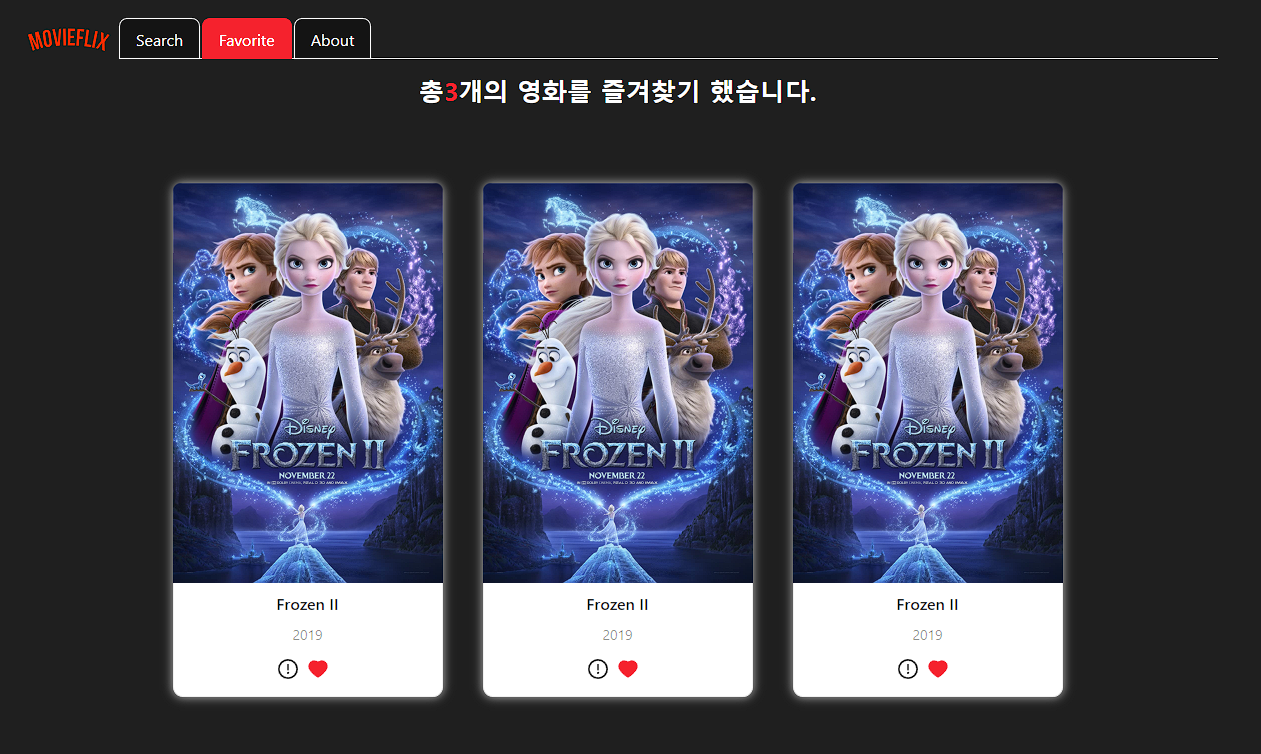
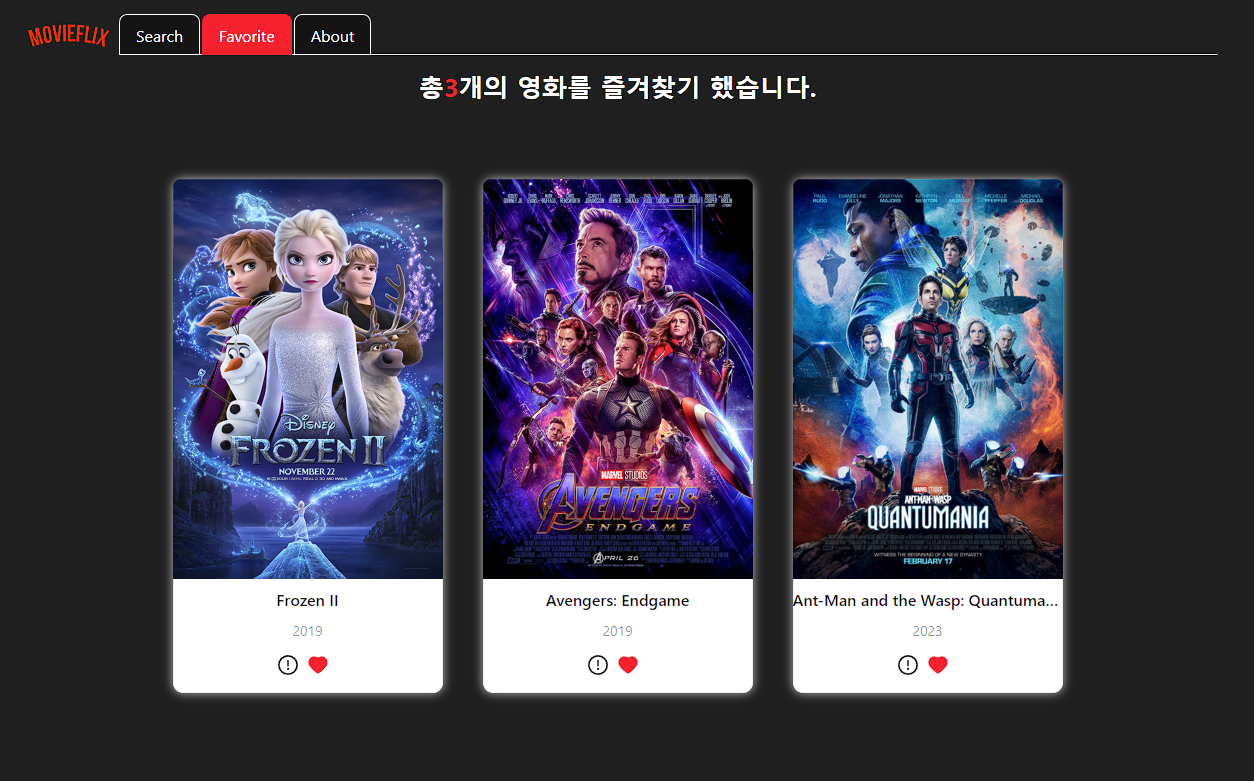
docs: readme업데이트

diff --git a/README.md b/README.md
@@ -26,13 +26,13 @@
 ## 3. 프로젝트 구조
 ```
 SearchMovie
+├─ .eslintrc.cjs
+├─ .git
 ├─ .gitignore
 ├─ .prettierrc.json
 ├─ index.html
 ├─ package.json
 ├─ public
-│  ├─ favicon.ico
-│  └─ vite.svg
 ├─ README.md
 ├─ src
 │  ├─ apis
@@ -41,27 +41,14 @@ SearchMovie
 │  ├─ assets
 │  ├─ components
 │  │  ├─ Card
-│  │  │  └─ index.tsx
 │  │  ├─ Content
-│  │  │  ├─ containder.tsx
-│  │  │  ├─ favoriteResult.tsx
-│  │  │  ├─ index.tsx
-│  │  │  └─ searchResult.tsx
 │  │  ├─ Header
-│  │  │  └─ index.tsx
 │  │  ├─ Layout
-│  │  │  └─ index.tsx
 │  │  ├─ Modal
-│  │  │  └─ index.tsx
 │  │  ├─ Pagination
-│  │  │  └─ index.tsx
 │  │  ├─ Search
-│  │  │  └─ index.tsx
 │  │  ├─ SideBar
-│  │  │  └─ index.tsx
 │  │  └─ Skeleton
-│  │     ├─ index.tsx
-│  │     └─ modal.tsx
 │  ├─ main.tsx
 │  ├─ pages
 │  │  ├─ About.tsx
@@ -69,27 +56,9 @@ SearchMovie
 │  │  ├─ NotFound.tsx
 │  │  └─ Search.tsx
 │  ├─ routes
-│  │  └─ Router.tsx
 │  ├─ store
-│  │  ├─ idStore.ts
-│  │  ├─ modalStore.ts
-│  │  ├─ optionStore.ts
-│  │  └─ sideBarStore.ts
 │  ├─ styles
-│  │  ├─ Card.styles.ts
-│  │  ├─ Content.styles.ts
-│  │  ├─ Global.styles.ts
-│  │  ├─ Header.styles.ts
-│  │  ├─ Main.styles.ts
-│  │  ├─ Modal.styles.ts
-│  │  ├─ Page.styles.ts
-│  │  ├─ Search.styles.ts
-│  │  ├─ SideBar.styles.ts
-│  │  ├─ Skeleton.styles.ts
-│  │  └─ theme.styles.ts
 │  ├─ types
-│  │  ├─ searchMovie.ts
-│  │  └─ searchMovieId.ts
 │  └─ vite-env.d.ts
 ├─ tsconfig.json
 ├─ tsconfig.node.json
@@ -123,11 +92,12 @@ SearchMovie
 ### 하트 버튼을 통한 즐겨 찾기 추가
 ![heart](/src/assets/heart.png)
 
-### 즐겨 찾기(현재 처음으로 클릭한 즐겨찾기만 표시됨)
+### 즐겨 찾기
 ![favorite](/src/assets/favorite.png)
 ### 개발자 GitHub 링크
 ![about](/src/assets/about.png)
 
 ### 사이트 성능
 ![lighthouse](/src/assets/lighthouse.png)
+
 
